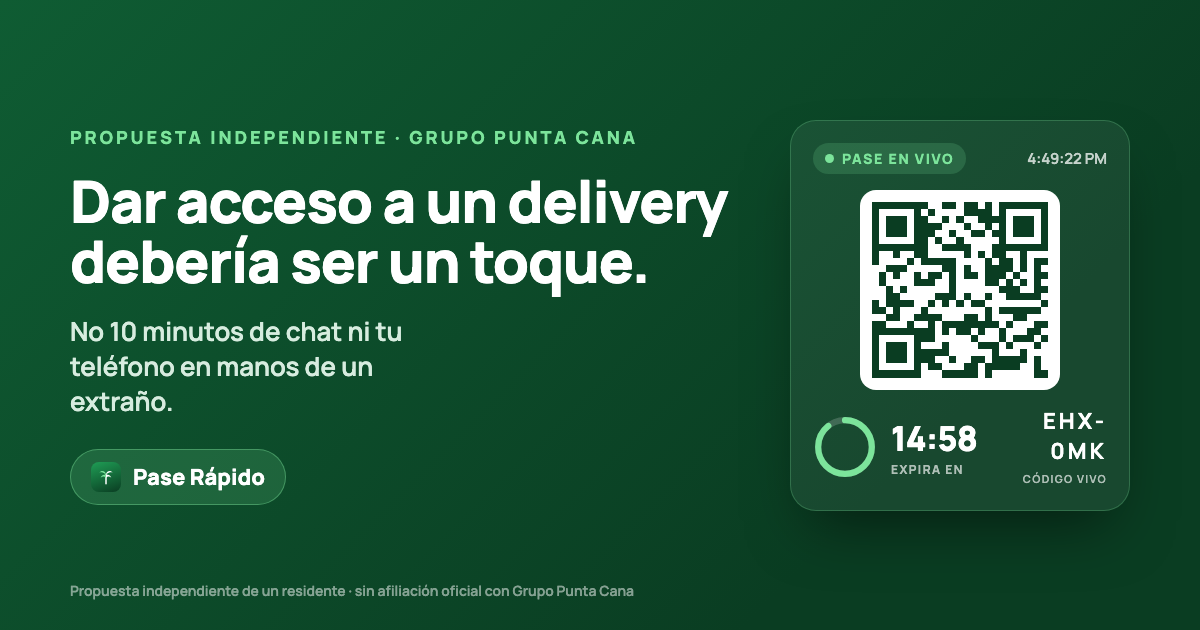
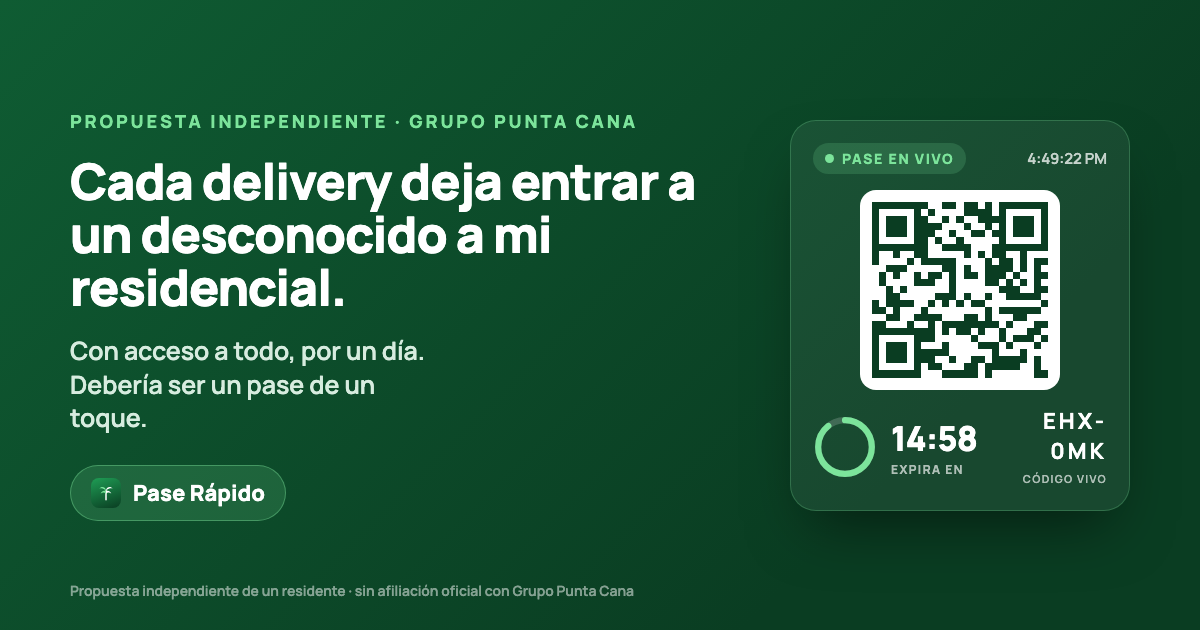
Pase Rápido: harder hero copy in Winner's voice (natural-writing), fix courier-number anecdote, Village + Resorts, enable GA4 (G-QMCX61DRQF), update OG image (#19)

Changed region(s): [[0.0617, 0.181, 0.6167, 0.4825], [0.0617, 0.5127, 0.37, 0.6937], [0.0617, 0.6937, 0.2467, 0.8444]]

diff --git a/pase-rapido/index.html b/pase-rapido/index.html
@@ -375,12 +375,12 @@
       disc:"Propuesta independiente creada por un residente. No está afiliada ni respaldada oficialmente por Grupo Punta Cana; marca y nombres se usan solo con fines ilustrativos.",
       hero:{
         eyebrow:"Propuesta independiente · Grupo Punta Cana",
-        context:"En comunidades cerradas como Punta Cana, cada visita —hasta un delivery— necesita un pase en la entrada.",
-        h1:"Dar acceso a un delivery no debería costarte 10 minutos y tu número de teléfono.",
-        lead:"Hoy, pedir una entrada para un Uber Eats en Punta Cana toma ~10 minutos de chat y le regala tu WhatsApp a un extraño. Pase Rápido lo vuelve un toque: efímero, seguro y automático.",
-        stat:"26 desconocidos con mi número en los últimos 30 días — y solo soy yo.",
+        context:"En Punta Cana Village y Punta Cana Resorts, cada visita necesita un pase en la entrada. Hasta un delivery.",
+        h1:"Cada delivery que pido deja entrar a un desconocido a mi residencial, con acceso a todo por un día.",
+        lead:"Y para dárselo tengo que sacarle el número, darle el mío por WhatsApp y llenar un formulario de doce campos. Cada vez. Debería ser un botón.",
+        stat:"26 desconocidos con mi número en los últimos 30 días. Y solo soy yo.",
         hint:"👇 Pruébalo: toca Activar y desliza el dedo sobre el pase.",
-        notproduct:"Concepto interactivo y propuesta de un residente — no un producto en funcionamiento."
+        notproduct:"Esto es un concepto que armé yo. No es un producto que exista."
       },
       phone:{
         tabRes:"Residente", tabGua:"Guardia",
@@ -442,31 +442,31 @@
           {q:"Envío opcional por SMS / QR",a:"Si se dispone del número del repartidor (o vía una eventual integración), el enlace se envía por SMS — sin que el residente comparta el suyo."}
         ]
       },
-      quote:{ text:"El conductor me deletreó su número por seguridad: «ocho… nueve…». Lo copié mal. Estaba equivocado. Lo repitió. Todo para dejar entrar una hamburguesa.", who:"— Winner, residente de Punta Cana Village" },
+      quote:{ text:"El conductor me deletreó su número por seguridad: «ocho… nueve…». Me lo mandó mal. Se lo dije y lo repitió. Todo para dejar entrar una hamburguesa.", who:"— Winner, residente de Punta Cana Village" },
       biz:{ eyebrow:"Para Grupo Punta Cana", h:"Por qué le conviene",
         items:[
           {e:"🛡",h:"Más seguridad",p:"Acceso efímero y de un solo uso en vez de pases de día completo reutilizables. Menos riesgo dentro de la comunidad."},
-          {e:"💚",h:"Mejor experiencia",p:"Residentes más contentos y una app más moderna. Un diferenciador para la marca."},
+          {e:"💚",h:"Mejor experiencia",p:"Residentes más contentos y una app más moderna."},
           {e:"🔧",h:"Bajo esfuerzo",p:"Reutiliza la reja, el escáner y la app que ya existen. Es una opción más de pase, no un sistema nuevo."}
         ]
       },
       share:{ title:"Compártelo", suggested:"Una idea para el acceso de deliveries en Punta Cana Village: un “Pase Rápido” de un toque, efímero y seguro. Mira la propuesta: https://winnercrespo.com/pase-rapido/", copy:"Copiar mensaje", copied:"Copiado ✓", wa:"Compartir por WhatsApp" },
       who:{ eyebrow:"Quién está detrás", h:"Una sugerencia de un residente",
-        body:"Soy Winner Crespo, ingeniero de software y residente de Punta Cana Village. Vivo esto cada semana y armé esta propuesta como una sugerencia: creo que se resuelve fácil y haría la comunidad más segura y cómoda. Grupo Punta Cana ya tiene la infraestructura.",
-        askTeam:"¿Eres del equipo de Grupo Punta Cana? Hablemos — con gusto ayudo a hacerlo realidad.",
-        askResident:"¿Vives en el village? Compártelo: mientras más lo pidamos, más fácil que pase.",
+        body:"Soy Winner Crespo, ingeniero de software, y vivo en Punta Cana Village. Esto me pasa cada semana. Armé la propuesta porque creo que se resuelve fácil y ellos ya tienen todo para hacerlo.",
+        askTeam:"¿Eres de Grupo Punta Cana? Escríbeme y te ayudo a montarlo.",
+        askResident:"¿Vives aquí y te pasa lo mismo? Compártelo.",
         email:"Escríbeme", more:"Más sobre mí" }
     },
     en:{
       disc:"Independent proposal by a resident. Not affiliated with or officially endorsed by Grupo Punta Cana; brand and names used for illustrative purposes only.",
       hero:{
         eyebrow:"Independent proposal · Grupo Punta Cana",
-        context:"In gated communities like Punta Cana, every visit —even a delivery— needs a pass at the gate.",
-        h1:"Letting a delivery in shouldn't cost you 10 minutes and your phone number.",
-        lead:"Today, getting an Uber Eats courier through the gate in Punta Cana takes ~10 minutes of chat and hands your WhatsApp to a stranger. Pase Rápido makes it one tap: ephemeral, secure, automatic.",
-        stat:"26 strangers with my number in the last 30 days — and that's just me.",
+        context:"At Punta Cana Village and Punta Cana Resorts, every visit needs a pass at the gate. Even a delivery.",
+        h1:"Every delivery I order lets a stranger into my gated community, with access to everything for a day.",
+        lead:"And to do it I have to get his number, give him mine over WhatsApp and fill out a twelve-field form. Every time. It should be one button.",
+        stat:"26 strangers with my number in the last 30 days. And that's just me.",
         hint:"👇 Try it: tap Activate and swipe your finger across the pass.",
-        notproduct:"An interactive concept and a resident's proposal — not a working product."
+        notproduct:"This is a concept I put together. It's not a real product."
       },
       phone:{
         tabRes:"Resident", tabGua:"Guard",
@@ -528,19 +528,19 @@
           {q:"Optional SMS / QR delivery",a:"If the courier's number is available (or via an eventual integration), the link is sent by SMS — without the resident sharing theirs."}
         ]
       },
-      quote:{ text:"The courier spelled out his number for safety: “eight… nine…”. I copied it wrong. It was wrong. He repeated it. All to let a burger in.", who:"— Winner, Punta Cana Village resident" },
+      quote:{ text:"The courier spelled out his number for safety: “eight… nine…”. He got it wrong. I told him, he sent it again. All to let a burger in.", who:"— Winner, Punta Cana Village resident" },
       biz:{ eyebrow:"For Grupo Punta Cana", h:"Why it's worth it",
         items:[
           {e:"🛡",h:"More security",p:"Ephemeral, single-use access instead of reusable full-day passes. Less risk inside the community."},
-          {e:"💚",h:"Better experience",p:"Happier residents and a more modern app. A differentiator for the brand."},
+          {e:"💚",h:"Better experience",p:"Happier residents and a more modern app."},
           {e:"🔧",h:"Low effort",p:"Reuses the existing gate, scanner and app. It's one more pass option, not a new system."}
         ]
       },
       share:{ title:"Share it", suggested:"An idea for delivery access at Punta Cana Village: a one-tap “Quick Pass” — ephemeral and secure. See the proposal: https://winnercrespo.com/pase-rapido/", copy:"Copy message", copied:"Copied ✓", wa:"Share on WhatsApp" },
       who:{ eyebrow:"Who's behind this", h:"A resident's suggestion",
-        body:"I'm Winner Crespo, a software engineer and Punta Cana Village resident. I live this every week and put this together as a suggestion: I think it's an easy fix that would make the community safer and more convenient. Grupo Punta Cana already has the infrastructure.",
-        askTeam:"Are you on the Grupo Punta Cana team? Let's talk — I'd be glad to help make it real.",
-        askResident:"Do you live in the village? Share it: the more we ask, the more likely it happens.",
+        body:"I'm Winner Crespo, a software engineer, and I live in Punta Cana Village. This happens to me every week. I put the proposal together because I think it's an easy fix and they already have everything they need to do it.",
+        askTeam:"On the Grupo Punta Cana team? Email me and I'll help you build it.",
+        askResident:"Live here and deal with the same thing? Share it.",
         email:"Email me", more:"More about me" }
     }
   };
@@ -668,13 +668,9 @@
 })();
 </script>
 
-<!-- Analytics (opcional). El sitio usa Universal Analytics (UA-120919401-1), que Google apagó en 2023,
-     y esta página es standalone (no hereda el GA del layout de Jekyll). Para medirla: crea/usa una
-     propiedad GA4, pon su ID (G-XXXXXXXXXX) en ambas líneas de abajo y descomenta este bloque. -->
-<!--
-<script async src="https://www.googletagmanager.com/gtag/js?id=G-XXXXXXXXXX"></script>
-<script>window.dataLayer=window.dataLayer||[];function gtag(){dataLayer.push(arguments);}gtag('js',new Date());gtag('config','G-XXXXXXXXXX');</script>
--->
+<!-- Google Analytics 4 — propiedad winnercrespo.com (esta página standalone no hereda el GA del layout de Jekyll) -->
+<script async src="https://www.googletagmanager.com/gtag/js?id=G-QMCX61DRQF"></script>
+<script>window.dataLayer=window.dataLayer||[];function gtag(){dataLayer.push(arguments);}gtag('js',new Date());gtag('config','G-QMCX61DRQF');</script>
 
 </body>
 </html>
